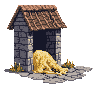
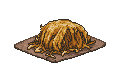
야영지 살림을 붙이고 횃불을 조명 밀도로 — 밤 작업 마무리
밤 3회차에서 구워만 놓고 커밋 못 한 것들을 검수해 붙였다.
넷 다 주문대로 나왔다(TONE_SOFT 가 먹었다):
  잠자리 · 짚단 · 숫돌 · 덮개 씌운 짐더미

★ 51 칸에 횃불이 **셋**뿐이라 한 화면에 하나 뜰까 말까였다 — 그래서 어젯밤
화면이 소품은 늘었는데 오히려 밋밋했다. 야영지에서 불은 소품이 아니라
**조명**이니 개수를 따로 잡는다(3 → 8). 이제 화면마다 빛웅덩이가 두세 개 든다.

바닥은 camp2 를 뽑아 봤지만 고른 칸이 또 흙(평균 72)이라 마른 풀에 가까운
지금 것(camp_tile)을 유지한다 — 바꿔서 나아지지 않는 것은 안 바꾼다.

diff --git a/js/main.js b/js/main.js
@@ -273,14 +273,22 @@ function draw(dt) {
                       · boulder 둘        — 마른 흙에 박힌 자연물, 바닥을 채운다
                       · banner 하나       — **표식은 드물어야 표식이다**(80x176 로
                                             세로가 길어 흔하면 깃발밭이 된다)
-                    45 칸 중 큰 것 여덟(천막 넷·짐수레·죽은나무·헛간·깃발) ≈ 18%. */
+                    51 칸 중 큰 것 여덟(천막 넷·짐수레·죽은나무·헛간·깃발) ≈ 16%.
+                    ★★★★ 4차 — 세 번 만에 나온 짚·잠자리를 넣는다. **잠자리는
+                    천막 다음으로 센 신호다**(사람이 여기서 잔다) — 둘씩 준다.
+                    숫돌·덮개짐은 하나씩: 있으면 반갑고 흔하면 지겹다. */
                  set: ["barrel", "barrel", "barrel", "crate", "crate", "crate",
                        "sacks", "sacks", "logs", "logs", "shrub", "shrub",
                        "rock", "rock", "stump", "stump", "boulder", "boulder",
+                       "hay", "hay", "bedroll", "bedroll",
                        "wall_a", "wall_a", "wall_b", "cart", "cart", "trough",
-                       "palisade", "palisade", "well",
+                       "palisade", "palisade", "well", "grindstone", "tarp",
                        "cookpot", "cookpot", "dryrack", "dryrack", "wrack",
-                       "torch", "torch", "torch", "firepit", "firepit",
+                       /* ★ 51 칸에 횃불 셋이면 한 화면에 하나 뜰까 말까라 **빛웅덩이가
+                          안 보인다** — 어젯밤 화면이 오히려 밋밋해진 이유다. 야영지에서
+                          불은 소품이 아니라 **조명**이니 개수를 따로 잡는다(3 → 8). */
+                       "torch", "torch", "torch", "torch",
+                       "torch", "torch", "torch", "torch", "firepit", "firepit",
                        "tent_a", "tent_a", "tent_b", "tent_b",
                        "wagon", "tree", "shed", "banner"] });
     drawTown(ctx, w, h, cx, cy, sc, SQUASH, (townT += (dt || 0.016)));

diff --git a/js/ground.js b/js/ground.js
@@ -213,11 +213,18 @@ const TOWN_DECOR = ["barrel", "crate", "cart", "well", "sacks"];
    banner 는 붉은 깃발이라 야영지 표식으로 읽힌다 — 받되 드물게 뿌린다.
 
    **두 번 틀린 것은 값이 아니라 주문이 문제다**(hay/wall_c). 왜 틀렸는지는
-   tools/pixellab/camp_night3.py 머리에 적어 뒀다. */
+   tools/pixellab/camp_night3.py 머리에 적어 뒀다.
+
+   ★★★ 4차(01:40) — 그 진단이 맞았다. 짚과 잠자리를 망친 건 주문 본문이 아니라
+   **모두가 공유하던 TONE 의 「회색 돌과 나무」** 였다(돌이 없는 물건에까지 돌을
+   요구하니 모델이 옆에 돌집을 세웠다). 재질 구절을 뺀 TONE 으로 다시 구우니
+   세 번 만에 hay 가 **짚 더미**로, bedroll 이 **잠자리**로 나왔다.
+   같이 구운 grindstone(숫돌)·tarp(덮개 씌운 짐더미)도 받았다 — wall_c 자리다. */
 const CAMP_DECOR = ["wall_a", "wall_b", "logs", "shrub", "rock", "torch", "shed",
                     "tent_a", "tent_b", "wagon", "trough", "palisade", "stump",
                     "tree", "firepit",
-                    "boulder", "cookpot", "wrack", "dryrack", "banner"];
+                    "boulder", "cookpot", "wrack", "dryrack", "banner",
+                    "hay", "bedroll", "grindstone", "tarp"];
 /** 싸움터 한가운데는 비운다 — 소품이 싸움을 가리면 판이 안 읽힌다. */
 const RING_HOLD_CLEAR = 190;
 const decor = {};
